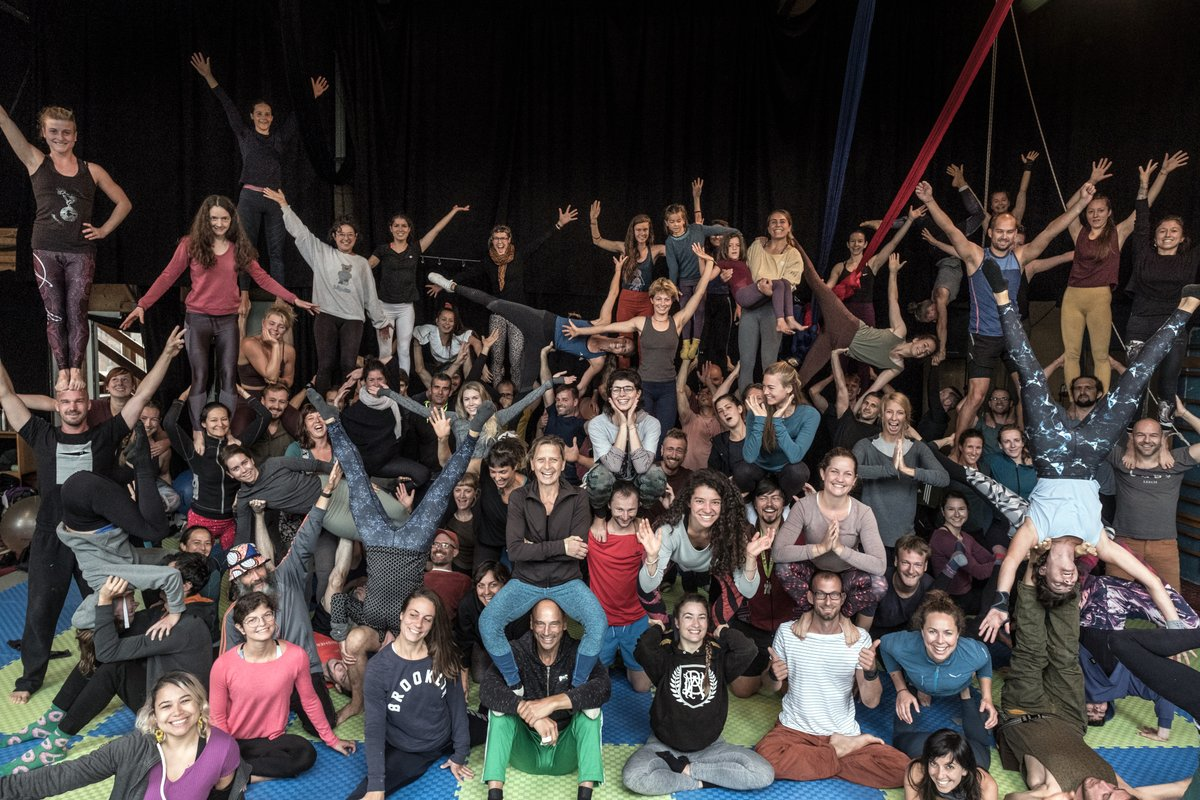
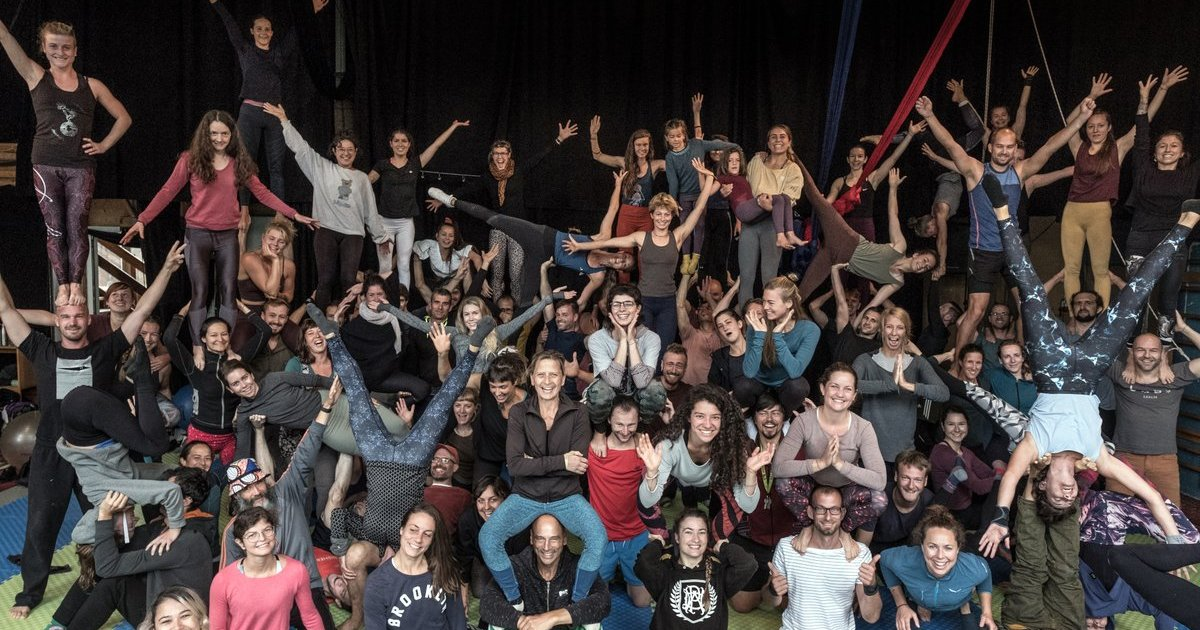
Fixing proportion of og images

diff --git a/acrofestival/templates/base.html b/acrofestival/templates/base.html
@@ -14,6 +14,7 @@
     <meta property="og:title" content="{% block og_title %}Acrofestival Switzerland{% endblock og_title %}" />
     <meta property="og:description" content="{% block og_description %}Acrofestival hosts the Urban Acro Festival in Zürich and the Winter Acro Festival in the Swiss Alps, plus the Dynamic Acro Program — international acro, acroyoga, and partner acrobatics gatherings in Switzerland.{% endblock og_description %}" />
     <meta property="og:image" content="{% block og_image %}{{ request.scheme }}://{{ request.get_host }}{% static 'urbanacro/images/logo_acrofestival.jpg' %}{% endblock og_image %}">
+    {% block og_image_meta %}{% endblock og_image_meta %}
     <meta property="og:type" content="{% block og_type %}website{% endblock og_type %}">
     <meta name="twitter:card" content="summary_large_image">
     <meta name="twitter:title" content="{% block twitter_title %}Acrofestival Switzerland{% endblock twitter_title %}">

diff --git a/acrofestival/templates/pages/winteracro/basefest.html b/acrofestival/templates/pages/winteracro/basefest.html
@@ -15,7 +15,7 @@
         <meta property="og:title" content="{% block og_title %}Winter Acro Festival{% endblock og_title %}" />
         <meta property="og:image" content="{% block og_image %}{{ request.scheme }}://{{ request.get_host }}{% static 'winteracro/images/BANNER.JPG' %}{% endblock og_image %}" />
         <meta property="og:image:width" content="1200" />
-        <meta property="og:image:height" content="675" />
+        <meta property="og:image:height" content="630" />
         <meta property="og:description" content="{% block og_description %}Winter Acro Festival in Switzerland — a week of acroyoga, partner acrobatics, yoga and movement workshops with international teachers in the Swiss Alps.{% endblock og_description %}" />
         <meta name="twitter:card" content="summary_large_image">
         <meta name="twitter:title" content="{% block twitter_title %}Winter Acro Festival{% endblock twitter_title %}">

diff --git a/acrofestival/templates/pages/urbanacro/home.html b/acrofestival/templates/pages/urbanacro/home.html
@@ -15,6 +15,7 @@
 {% block twitter_description %}Join us for 3 days of acroyoga, partner acrobatics, handstands, and healing arts in Zürich. International teachers, workshops, and community jam sessions.{% endblock twitter_description %}
 {% block og_image %}{{ request.scheme }}://{{ request.get_host }}{% static 'urbanacro/images/BANNER.JPG' %}{% endblock og_image %}
 {% block twitter_image %}{{ request.scheme }}://{{ request.get_host }}{% static 'urbanacro/images/BANNER.JPG' %}{% endblock twitter_image %}
+{% block og_image_meta %}<meta property="og:image:width" content="1200" /><meta property="og:image:height" content="630" />{% endblock og_image_meta %}
 
 {% block structured_data %}
 <script type="application/ld+json">
